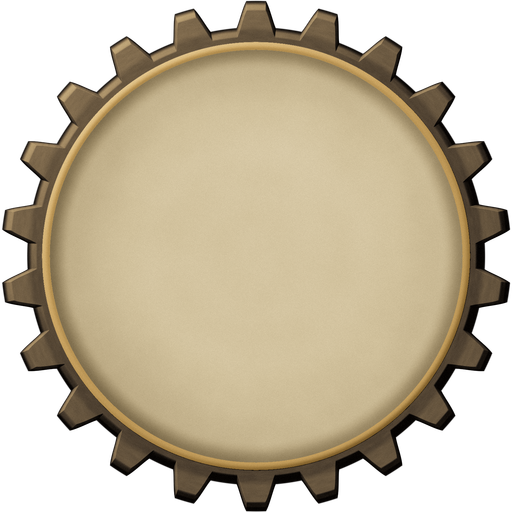
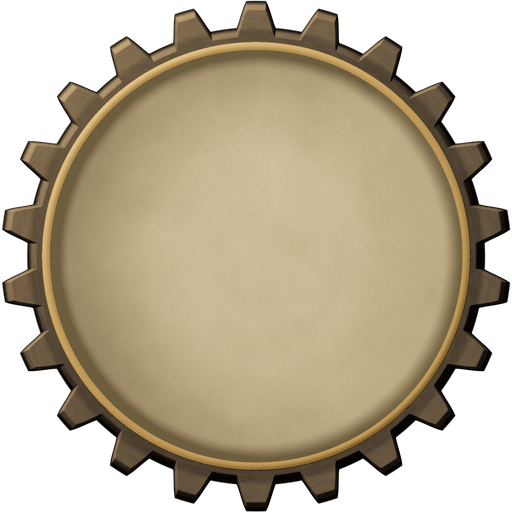
fix(botc): the deal glyph re-cut in our engraved idiom — tonal silhouette with grain instead of outlined flat cards (FT-854)

Changed region(s): [[0.0938, 0.0938, 0.9062, 0.9062], [0.7812, 0.75, 0.8125, 0.7812]]

diff --git a/src/components/Token.vue b/src/components/Token.vue
@@ -62,12 +62,15 @@
       <path :d="nameCurve" :id="curveId" fill="transparent" />
       <text
         width="150"
-        x="66.6%"
         text-anchor="middle"
         class="label mozilla"
         :font-size="role.name | nameToFontSize"
       >
-        <textPath :xlink:href="'#' + curveId">
+        <!-- startOffset centres on the ARC. Upstream anchored with x="66.6%",
+             which is 100 user units — half of their much deeper curve, but
+             two thirds of the way along ours, so every long name ran off the
+             end and was clipped ("Washerwoma", "Investigato"). -->
+        <textPath :xlink:href="'#' + curveId" startOffset="50%">
           {{ role.name }}
         </textPath>
       </text>
@@ -201,17 +204,19 @@ export default {
   filters: {
     /**
      * The wheel's face is smaller than upstream's full-bleed disc, so its
-     * name arc is about a quarter shorter — one long/short pair of sizes
-     * ran "Fortune Teller" and "Investigator" straight off the end of the
-     * path, where they were simply clipped. Step it down by length instead.
+     * name arc is about a fifth shorter and one long/short pair of sizes no
+     * longer covers the range. Calibrated against measured glyph widths at
+     * 152 units of arc: the longest name in any script ("Devil's Advocate")
+     * still lands inside it.
      */
     nameToFontSize: name => {
       const n = (name || "").length;
       if (n <= 5) return "104%";
-      if (n <= 8) return "94%";
-      if (n <= 11) return "82%";
-      if (n <= 14) return "72%";
-      return "63%";
+      if (n <= 8) return "96%";
+      if (n <= 11) return "86%";
+      if (n <= 14) return "74%";
+      if (n <= 17) return "64%";
+      return "56%";
     }
   },
   methods: {
